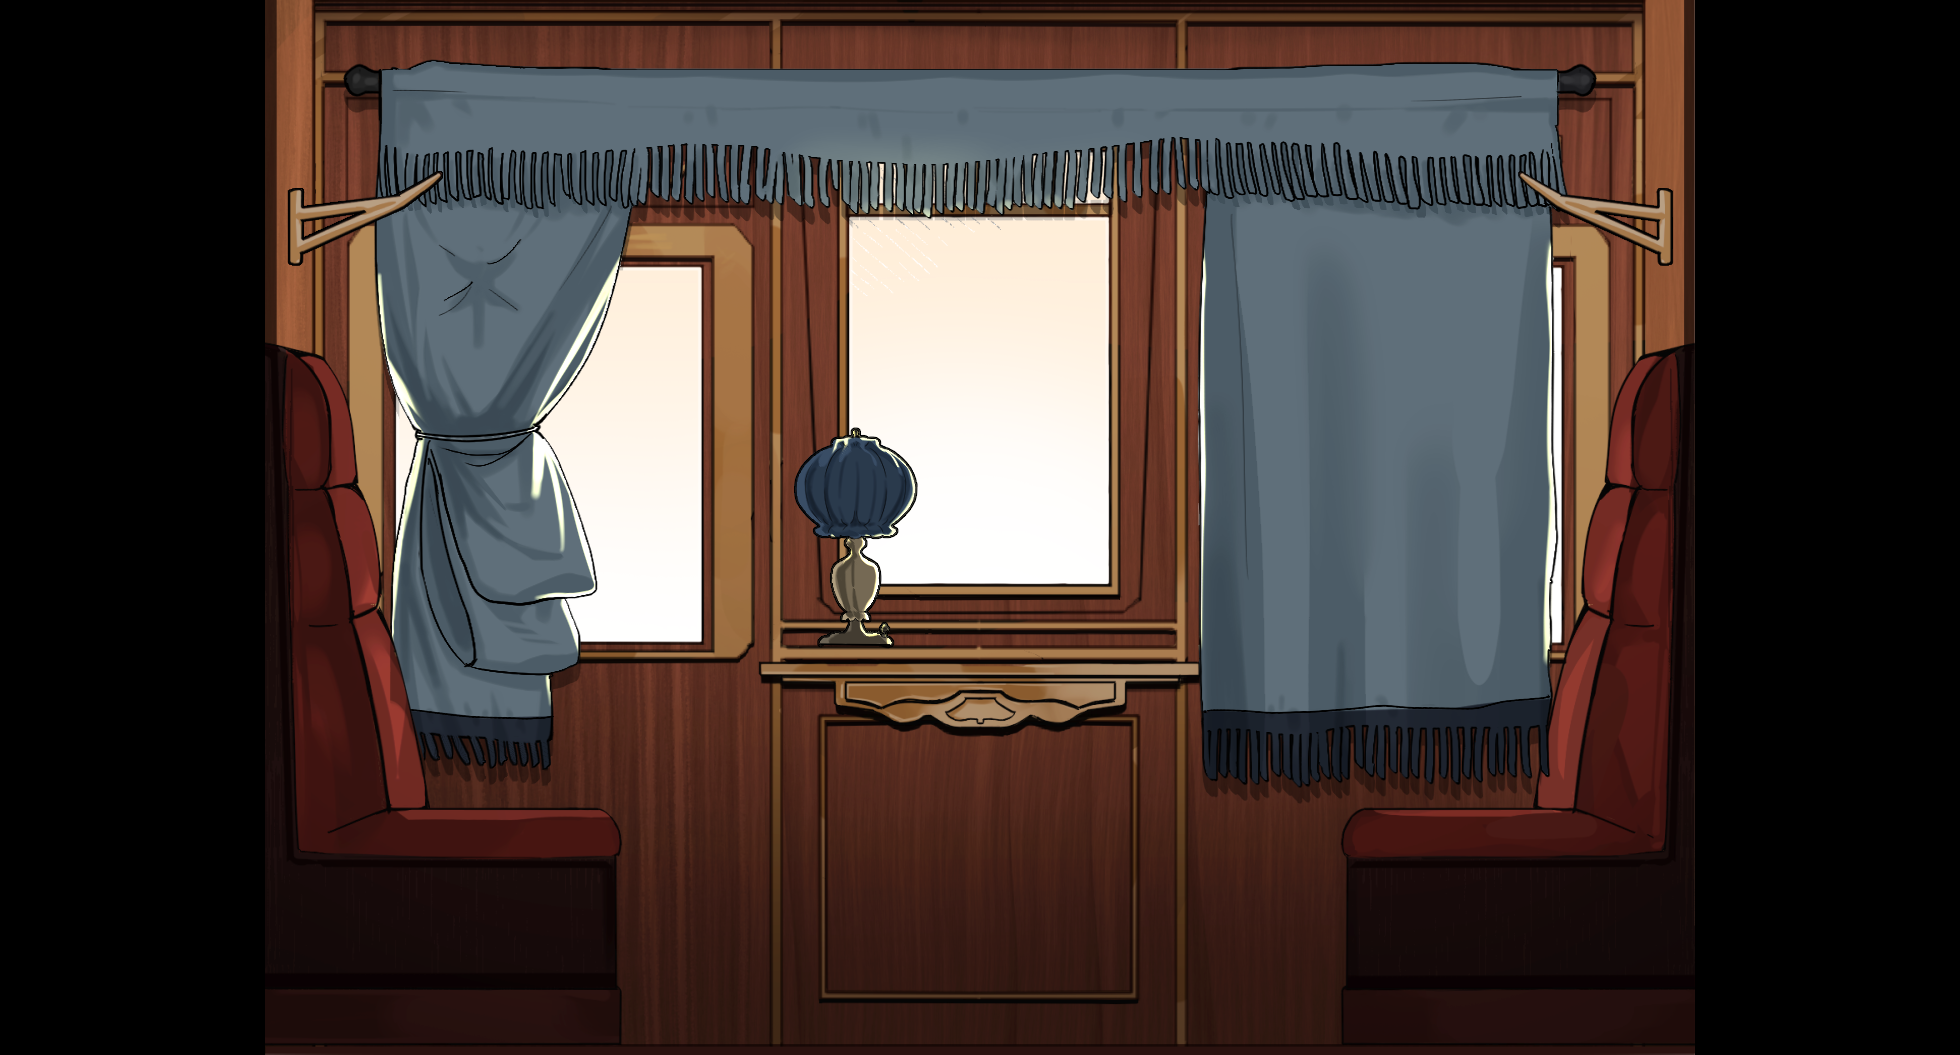
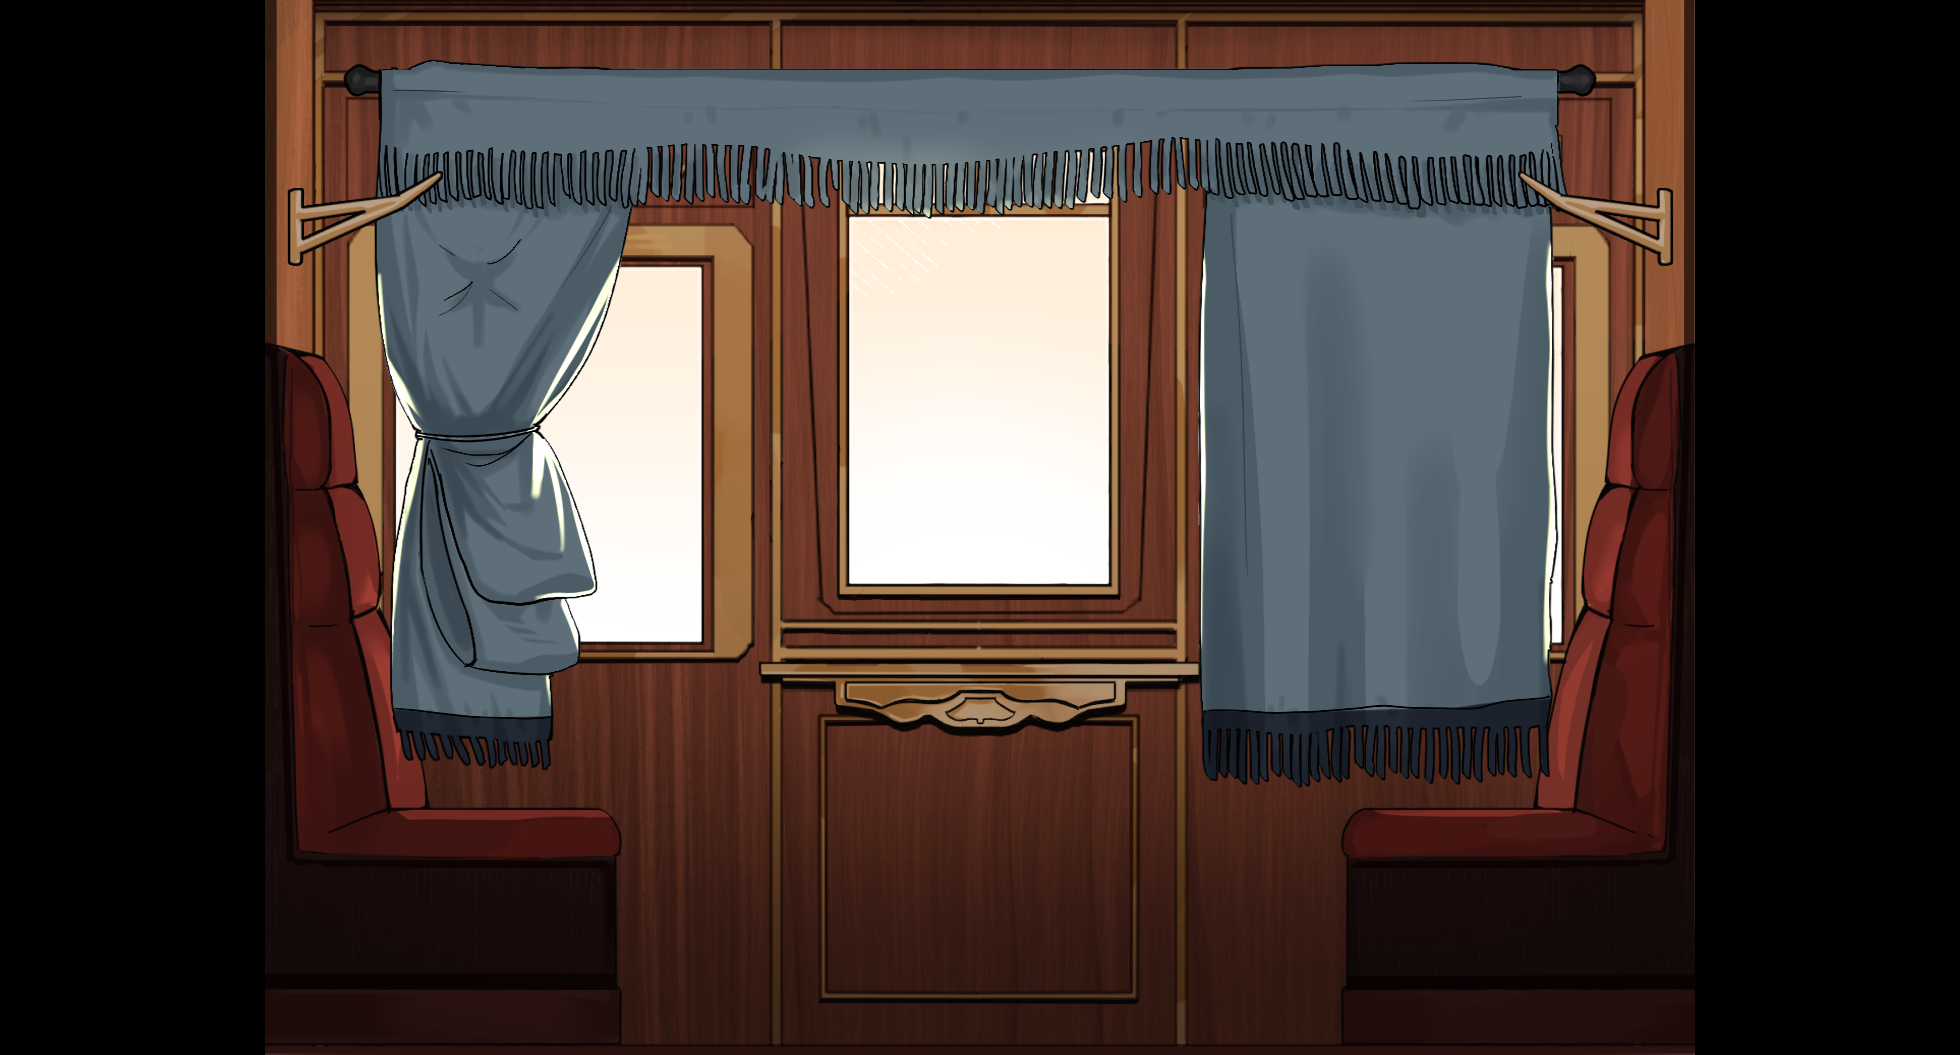
Fix Octavia dialogue and add lamp in cabin

diff --git a/HonkEngine/Engine/Code/Scene/Room4.h b/HonkEngine/Engine/Code/Scene/Room4.h
@@ -84,6 +84,7 @@ public:
         //Objects     
         UIElement* room = new UINormal("Cabin4", "Assets/Images/Octavia/Octavia_Cabin.png", glm::vec3(0.0f, 0.0f, 0.0f), glm::vec3(19.0f * sm, 10.55f * sm, 0.0f), true);
         UIElement* bag = new UINormal("Bag", "Assets/Images/Octavia/Octavia_Bag.png", glm::vec3(-1.7f, -4.85f, 0.0f), glm::vec3(3.75f * sm, 2.7f * sm, 0.0f), true);
+        UIElement* lamp = new UINormal("Lamp", "Assets/Images/Octavia/Octavia_Lamp.png", glm::vec3(-1.65f, -0.335f, 0.0f), glm::vec3(1.25f * sm, 2.22f * sm, 0.0f), true);
 
 
         //Inspection Items
@@ -202,6 +203,8 @@ public:
         m_gameObjects.push_back(poster);
         m_gameObjects.push_back(posterInspect);
 
+        m_gameObjects.push_back(lamp);
+
         m_gameObjects.push_back(octaviaNormal);
         m_gameObjects.push_back(octaviaHappy);
         m_gameObjects.push_back(octaviaHappy2);
@@ -209,7 +212,6 @@ public:
         m_gameObjects.push_back(octaviaUpset);
         m_gameObjects.push_back(octaviaSad);
         m_gameObjects.push_back(octaviaSurprise);
-
 
         m_gameObjects.push_back(dialogueBox);
         m_gameObjects.push_back(dialogueChoice1);
@@ -224,22 +226,23 @@ public:
         backgroundParallaxManager = std::make_unique<BackgroundParallax>();
 
         float defaultLayer = 0.8f;
-        float objectLayerOne = 0.83f;
+        float objectLayer = 0.85f;
 
         // Add objects to different layers
         ObjectsparallaxManager->AddObjectToLayer(room, defaultLayer);   // Layer 1
-        ObjectsparallaxManager->AddObjectToLayer(dagger, objectLayerOne);    // Layer 2
-        ObjectsparallaxManager->AddObjectToLayer(daggerInspect, objectLayerOne);    // Layer 2
-        ObjectsparallaxManager->AddObjectToLayer(bag, objectLayerOne);    // Layer 2
-        ObjectsparallaxManager->AddObjectToLayer(poster, objectLayerOne);   // Layer 2
-        ObjectsparallaxManager->AddObjectToLayer(posterInspect, objectLayerOne);   // Layer 2
-        ObjectsparallaxManager->AddObjectToLayer(octaviaNormal, objectLayerOne); // Layer 2
-        ObjectsparallaxManager->AddObjectToLayer(octaviaHappy, objectLayerOne); // Layer 2
-        ObjectsparallaxManager->AddObjectToLayer(octaviaHappy2, objectLayerOne); // Layer 2
-        ObjectsparallaxManager->AddObjectToLayer(octaviaDisappoint, objectLayerOne); // Layer 2
-        ObjectsparallaxManager->AddObjectToLayer(octaviaUpset, objectLayerOne); // Layer 2
-        ObjectsparallaxManager->AddObjectToLayer(octaviaSad, objectLayerOne); // Layer 2
-        ObjectsparallaxManager->AddObjectToLayer(octaviaSurprise, objectLayerOne); // Layer 2
+        ObjectsparallaxManager->AddObjectToLayer(dagger, objectLayer);    // Layer 2
+        ObjectsparallaxManager->AddObjectToLayer(daggerInspect, objectLayer);    // Layer 2
+        ObjectsparallaxManager->AddObjectToLayer(bag, objectLayer);    // Layer 2
+        ObjectsparallaxManager->AddObjectToLayer(lamp, objectLayer);    // Layer 2
+        ObjectsparallaxManager->AddObjectToLayer(poster, objectLayer);   // Layer 2
+        ObjectsparallaxManager->AddObjectToLayer(posterInspect, objectLayer);   // Layer 2
+        ObjectsparallaxManager->AddObjectToLayer(octaviaNormal, objectLayer); // Layer 2
+        ObjectsparallaxManager->AddObjectToLayer(octaviaHappy, objectLayer); // Layer 2
+        ObjectsparallaxManager->AddObjectToLayer(octaviaHappy2, objectLayer); // Layer 2
+        ObjectsparallaxManager->AddObjectToLayer(octaviaDisappoint, objectLayer); // Layer 2
+        ObjectsparallaxManager->AddObjectToLayer(octaviaUpset, objectLayer); // Layer 2
+        ObjectsparallaxManager->AddObjectToLayer(octaviaSad, objectLayer); // Layer 2
+        ObjectsparallaxManager->AddObjectToLayer(octaviaSurprise, objectLayer); // Layer 2
 
 
         //Scrolling effect for Background
